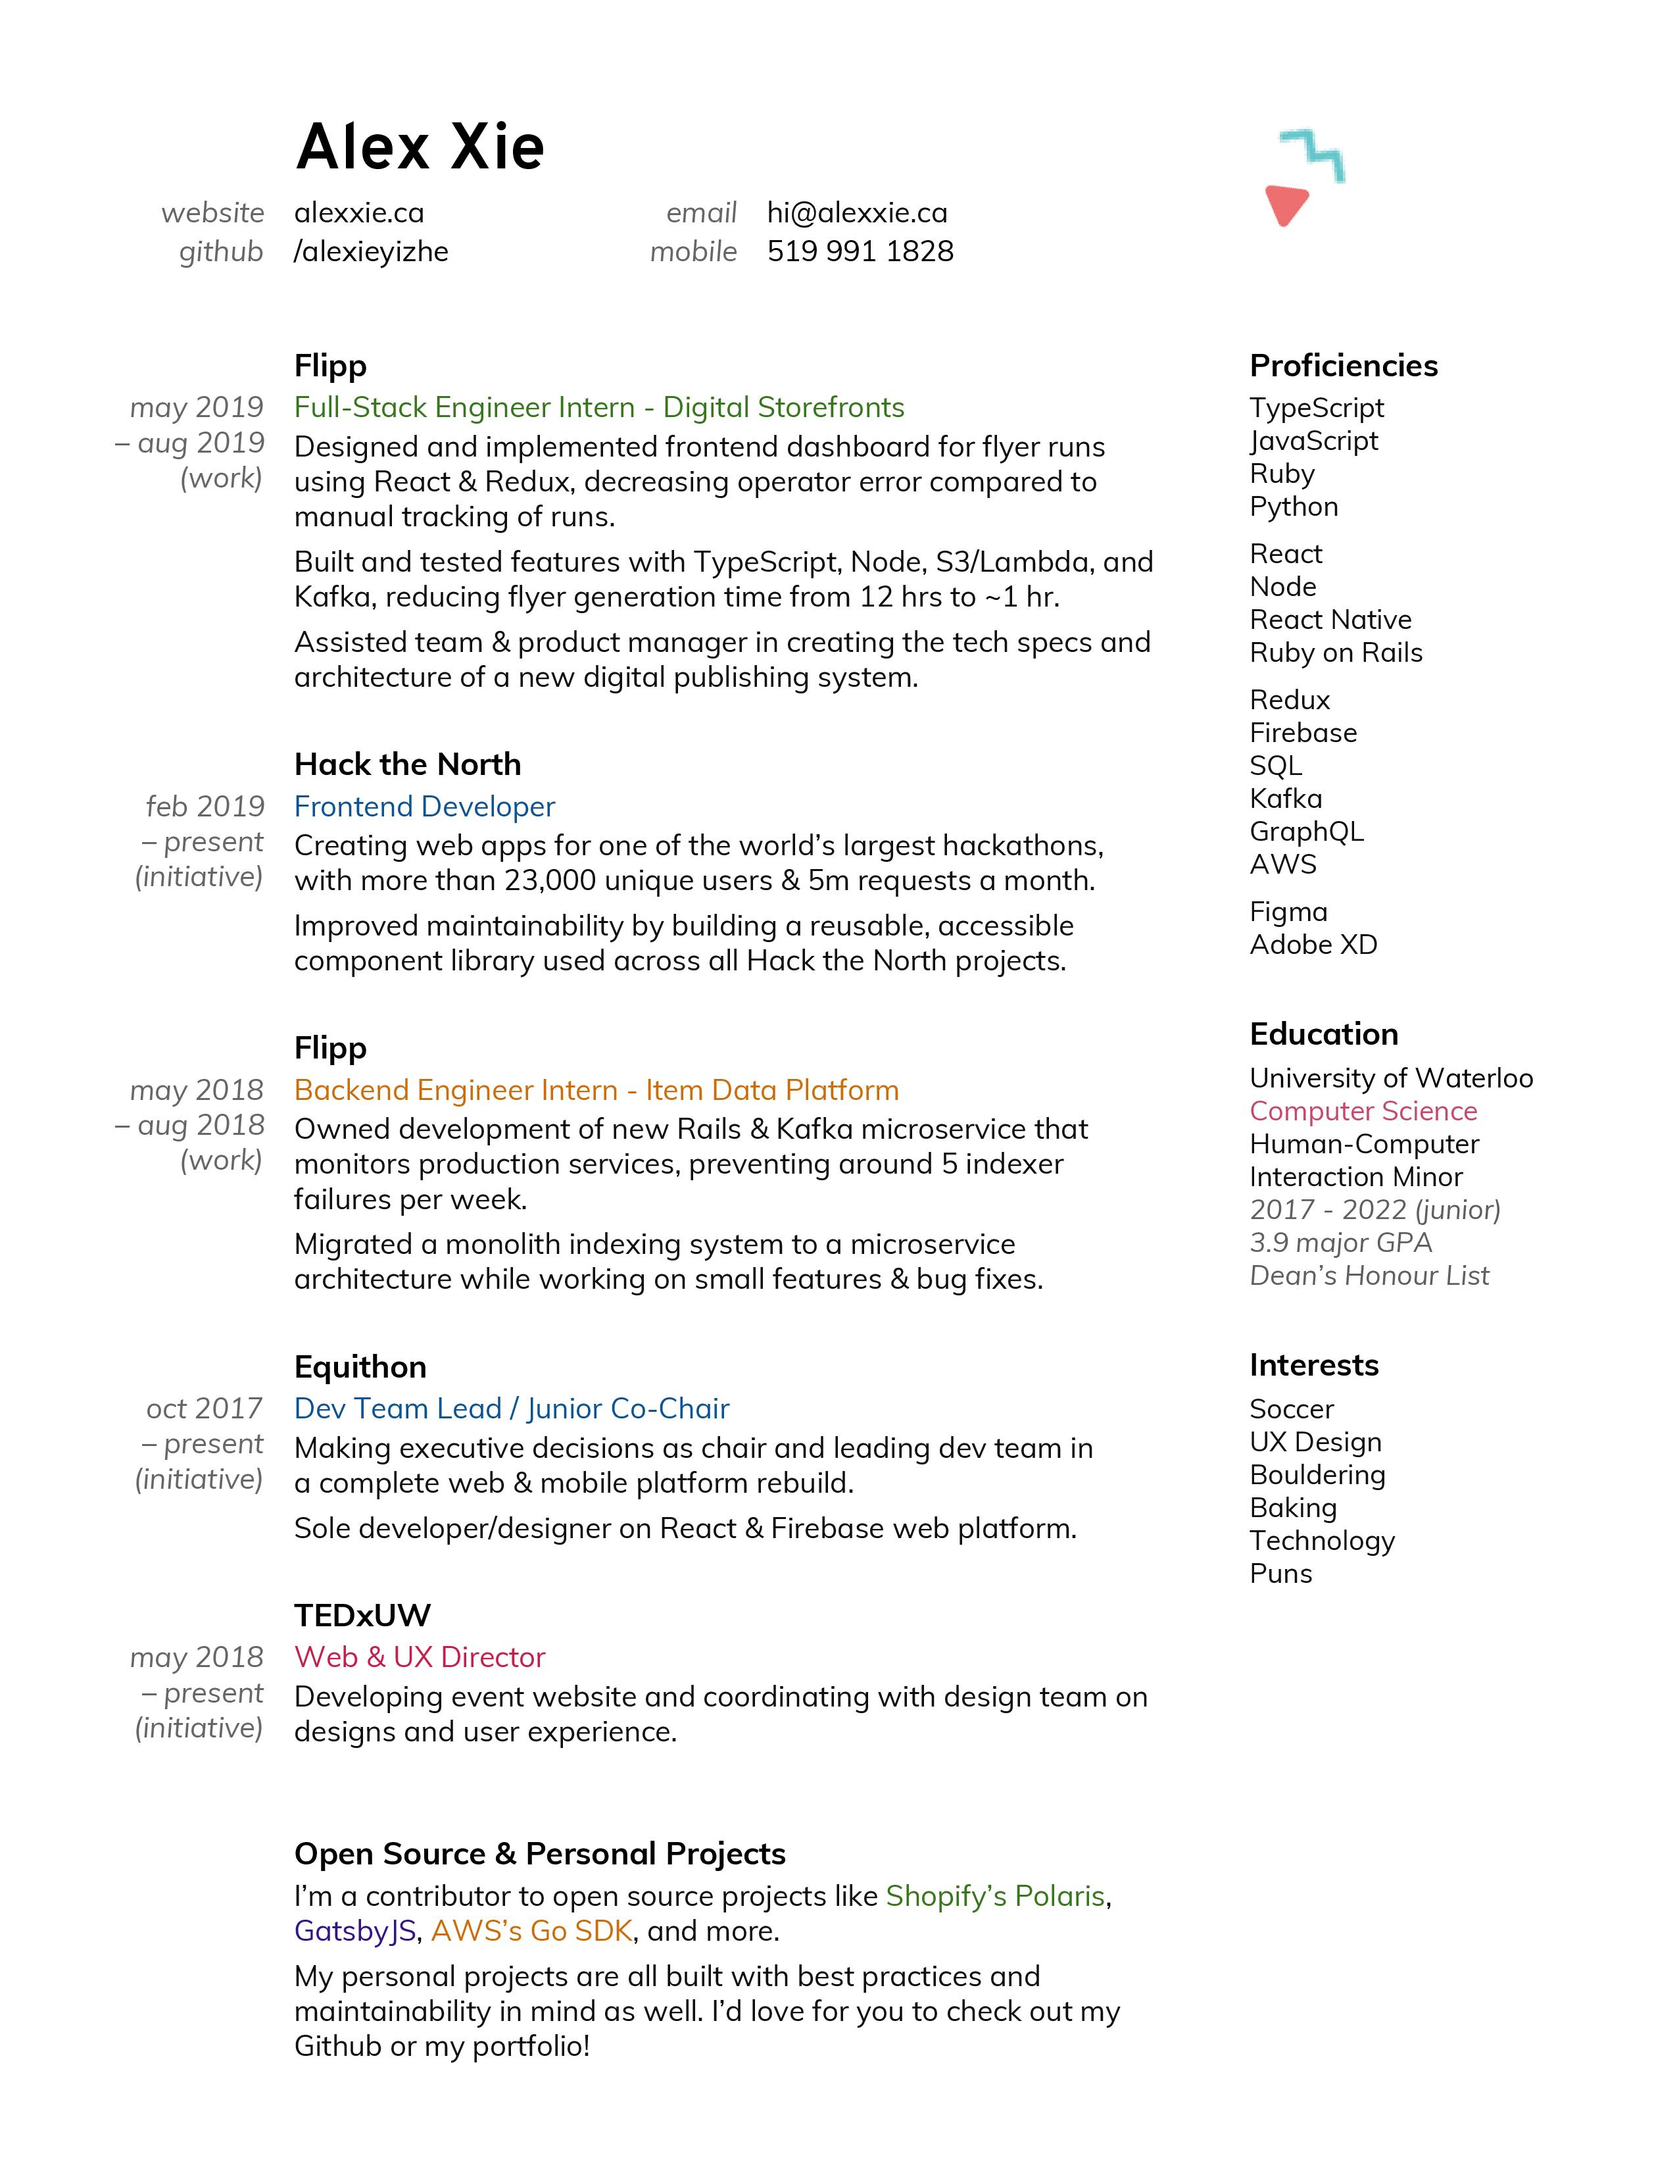
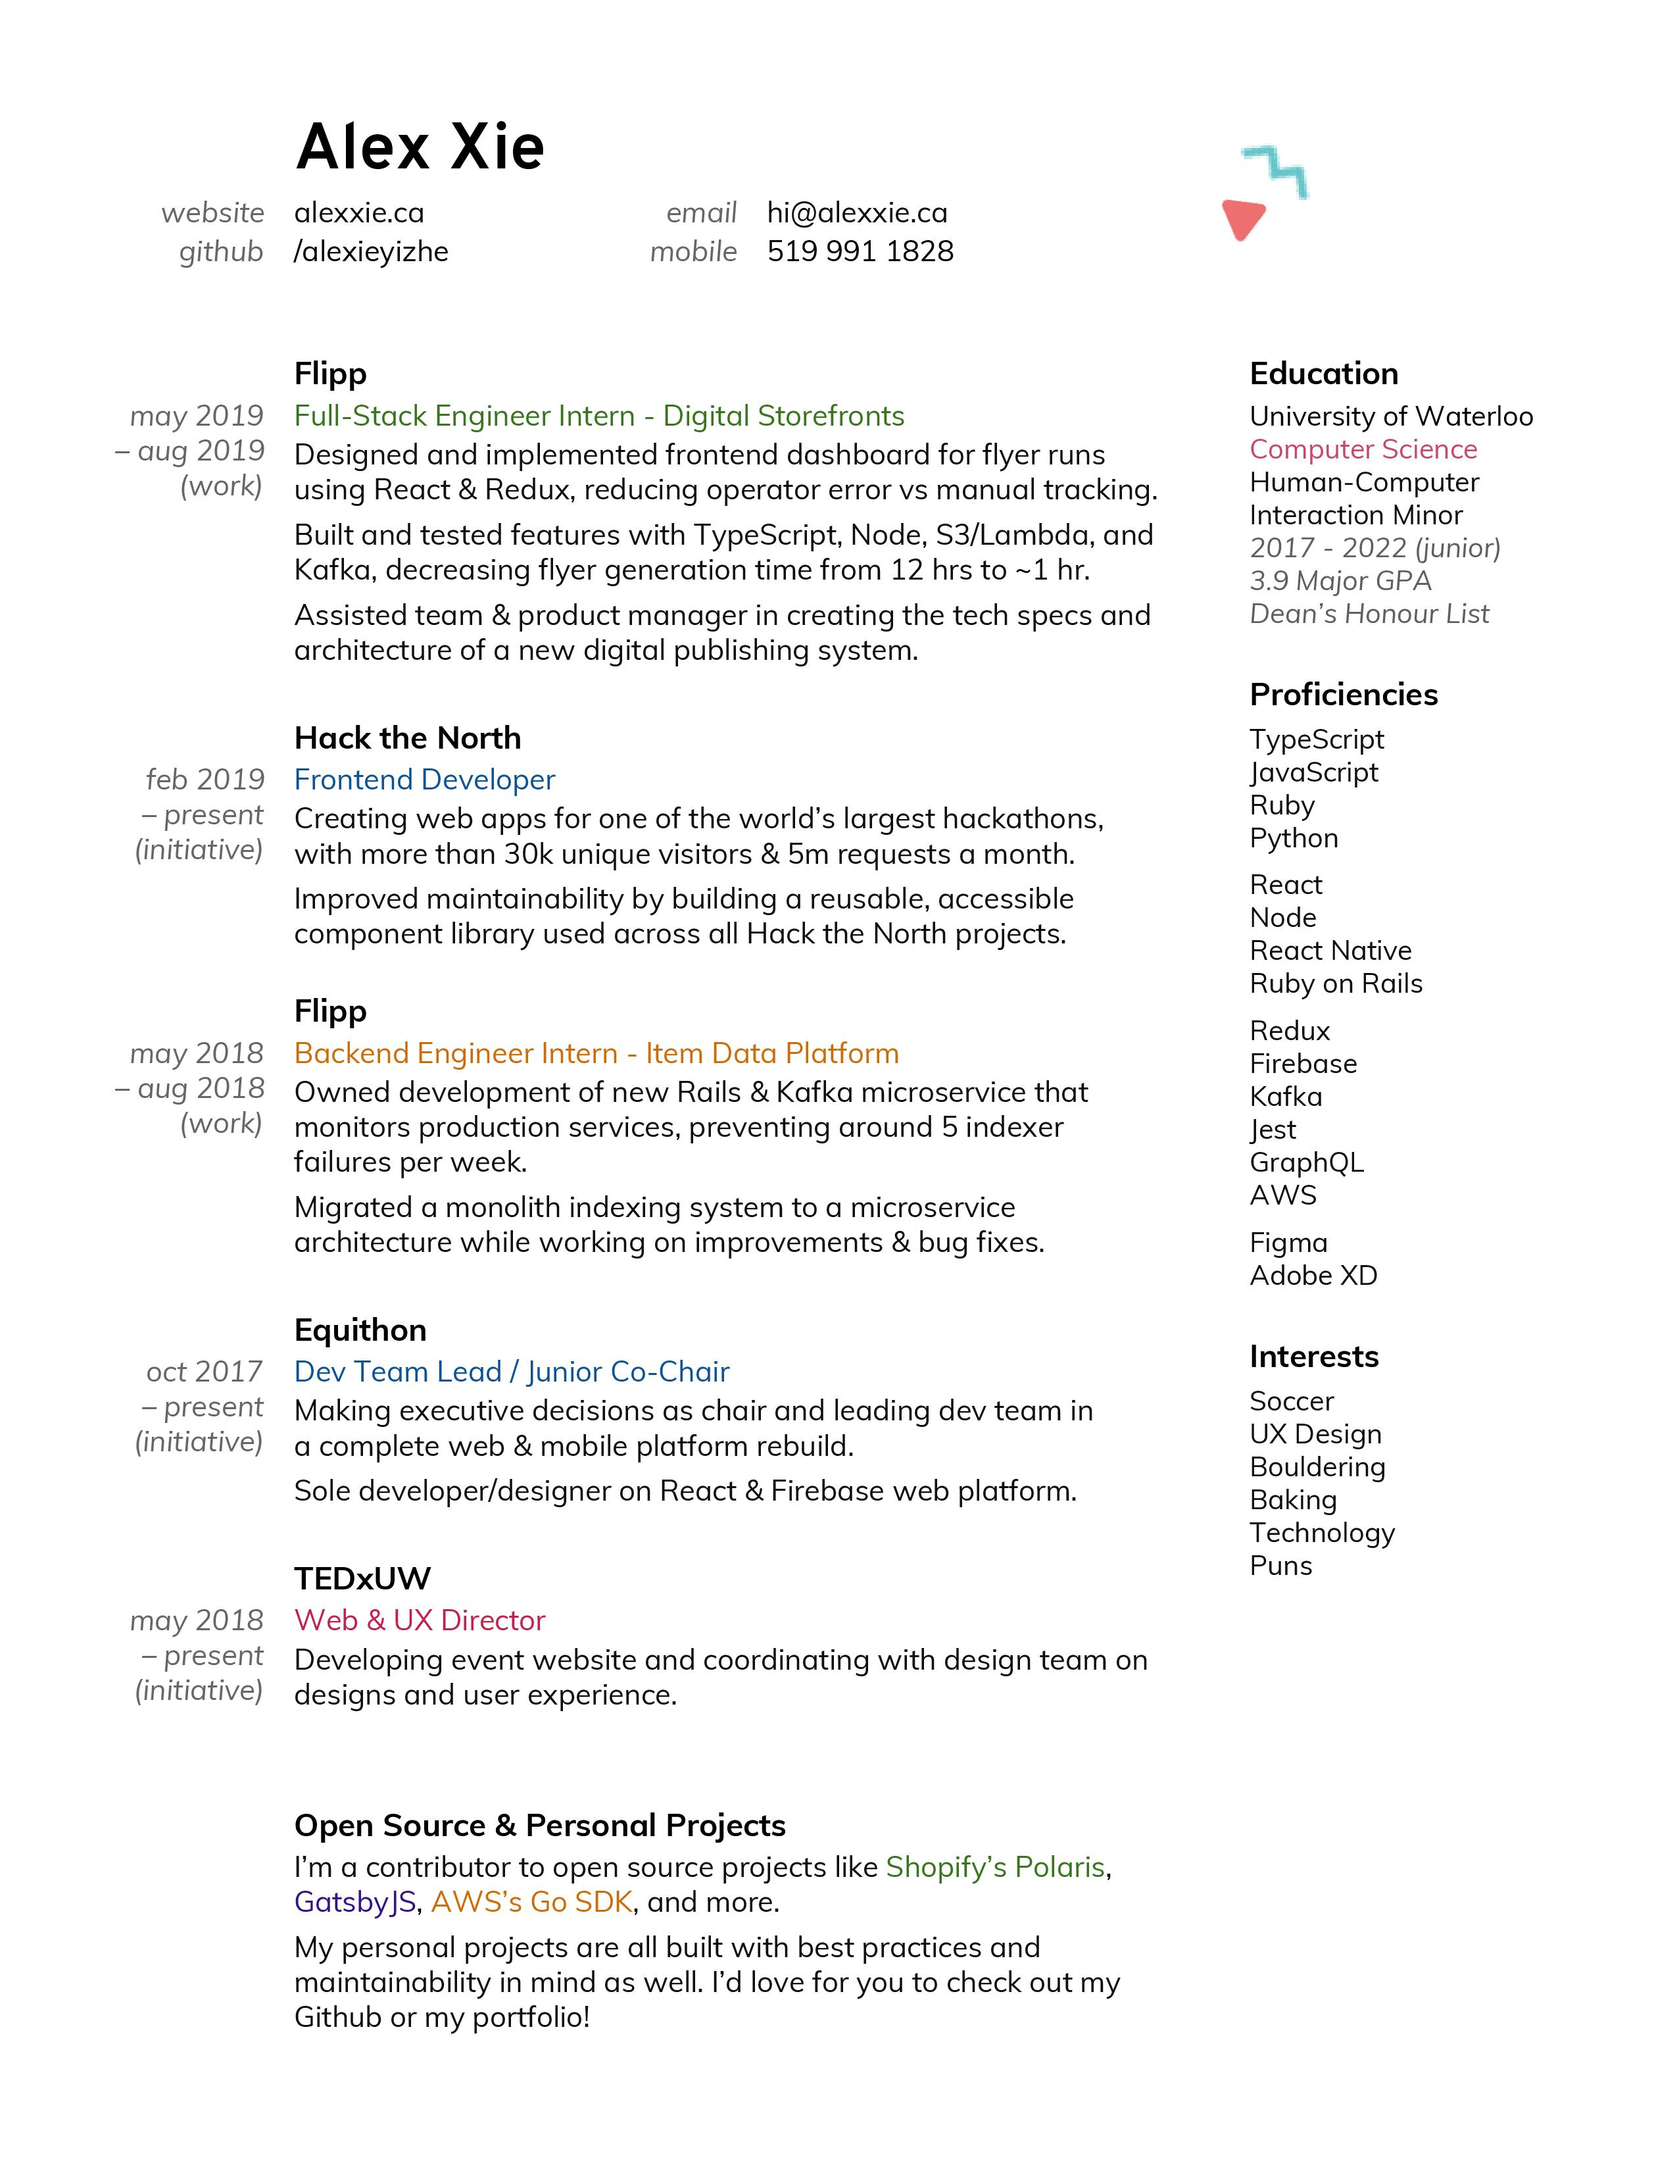
🐤 smol fixes (#49)
* Update resume again

* Add google analytics

diff --git a/gatsby-config.js b/gatsby-config.js
@@ -47,6 +47,13 @@ module.exports = {
       },
     },
     {
+      resolve: `gatsby-plugin-google-analytics`,
+      options: {
+        trackingId: "UA-114911192-3",
+        head: false,
+      },
+    },
+    {
       resolve: `gatsby-plugin-prefetch-google-fonts`,
       options: {
         fonts: [
